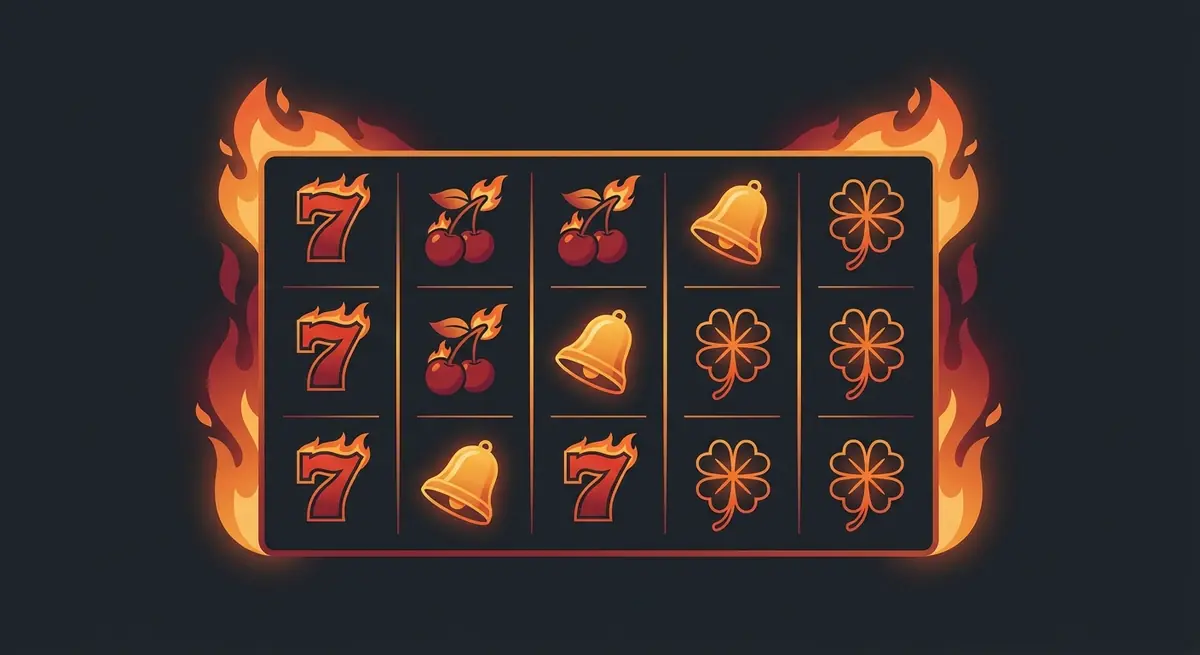
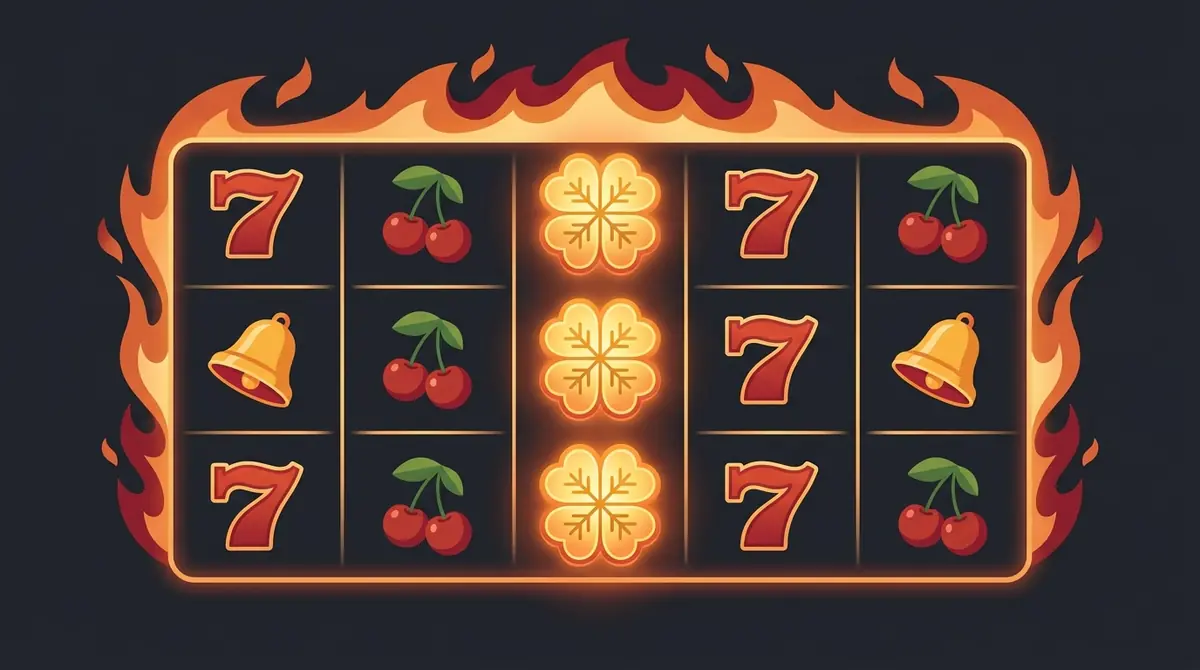
image(20-burning-hot): review pass 2-3 — score 65 then 95 (PASS); keep best (hero expanded-wild fix, SVG rx)
Claude-Session: https://claude.ai/code/session_017EpyeHJrAszxUVCaUdSL4Z

diff --git a/VsichkiKazina/articles/2026-10-26-20-burning-hot/08-image-review-3.md b/VsichkiKazina/articles/2026-10-26-20-burning-hot/08-image-review-3.md
@@ -1,0 +1,17 @@
+# 08 — Gemini image review · pass 3 (after image fix pass 2) — PASS / keep-best
+
+Run: 2026-10-26
+
+**СКОР: 95/100 — PASS.** Keep-best across the loop: review 1 = 60 → review 2 = 65 → review 3 = **95**. Kept = current (fix pass 2). No integrity failure at any point (numbers trace to 05b; no operator logos/names, no fabricated bonus/RTP, no people/faces, no glamorised winning).
+
+## Gemini verbatim (BG)
+
+И двете изображения са отлични, напълно релевантни и спазват стриктно насоките за отговорна игра и липса на подвеждащи елементи.
+
+1. **Растерно изображение (20-burning-hot-hero.webp):** перфектно илюстрира механиката — решетка 5×3, класически символи (седмици, камбани, череши) и разширяващият се wild (четирилистна детелина), покриващ изцяло средния (трети) барабан, точно както е в статията. Няма фалшив интерфейс, няма измислени лога, няма глорификация на хазарта. SEO: име на файл + ALT описателни и точни.
+
+2. **Инфографика (20-burning-hot-rtp.svg):** всички числа (95.88% RTP, 4.12% предимство, €958.80 връщане, €41.20 за казиното) съвпадат дословно с текста. „18+ Играйте отговорно" + бележката за конфигурацията на оператора — отлична практика. Текстовете са добре оразмерени, няма изрязани букви или припокриване.
+   - Два МНОГО дребни визуални нита (само фино полиране, не блокиращи): (1) червеният бар (rx=8) оставя лек процеп, през който прозира оранжевият отдолу; (2) „4.12%" (center на тесния бар) излиза няколко пиксела извън десния ръб на бара (остава в рамките на viewBox).
+
+## Disposition
+PASS at 95 (≥ 80), loop ends at MAX_IMAGE_PASSES. The two SVG nits are cosmetic micro-polish (no number/legibility/accuracy impact); left for the human editor at Step 6. Final: 2 images shipped (infographic + decorative hero), both reviewed PASS, 0 integrity failures.

diff --git a/VsichkiKazina/articles/2026-10-26-20-burning-hot/08-image-review-2.md b/VsichkiKazina/articles/2026-10-26-20-burning-hot/08-image-review-2.md
@@ -1,0 +1,15 @@
+# 08 — Gemini image review · pass 2 (after image fix pass 1)
+
+Run: 2026-10-26
+
+**Score: 65/100 — NEEDS WORK** (no integrity failure). → one more fix pass (within MAX_IMAGE_PASSES=2).
+
+## Gemini verbatim (summary)
+
+- **SVG infographic:** "highly accurate, legible, perfectly matches the article's math. The SVG is good to publish as-is." Only a microscopic corner-radius mismatch on the house bar's right edge (rx=4 vs the orange bar's rx=8).
+- **Raster hero:** decorative-literalism critique — clovers appear on the 5th reel, but the text says the wild is only on the middle three reels (2/3/4); and an expanded wild should fill a whole reel. Suggested prompt fix: fill the 3rd column top-to-bottom with three clovers (expanded wild), no clovers on any other reel.
+- SEO metadata: PASS (filenames + Bulgarian ALT accurate).
+
+## Fixes applied (fix pass 2)
+- SVG: house bar rx 4 → 8.
+- Hero: regenerated with strict column constraint (centre reel = three clovers = expanded wild; no clovers elsewhere), per Gemini's own suggested prompt.
